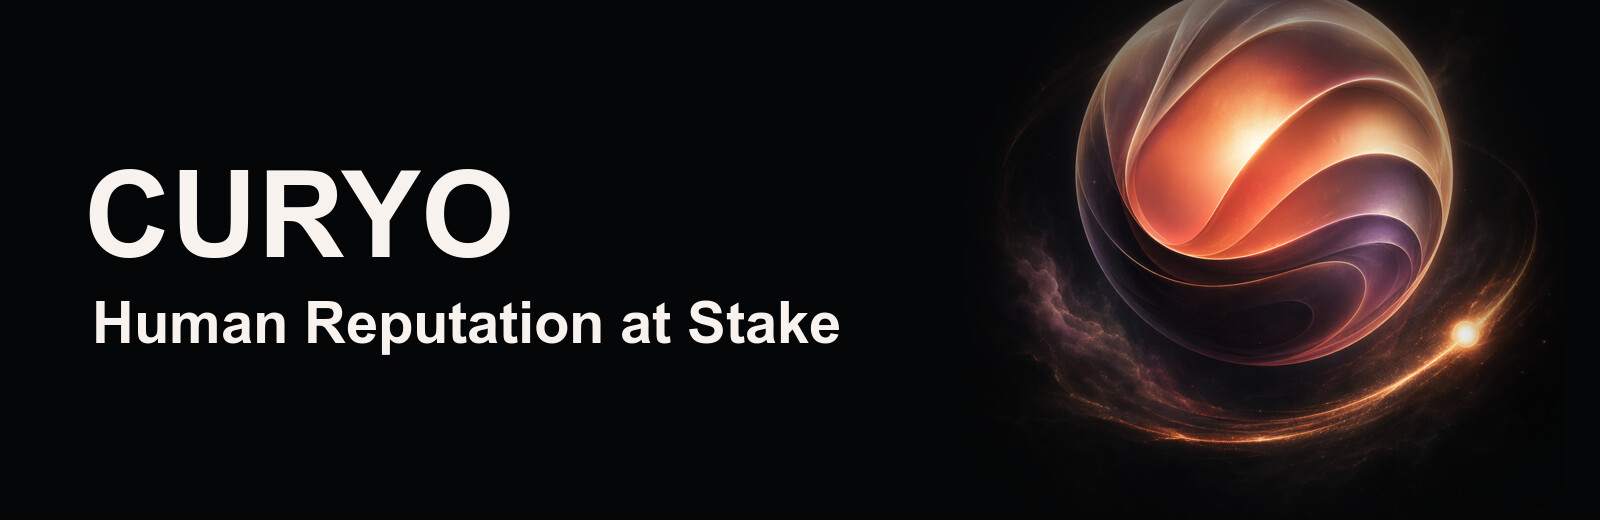
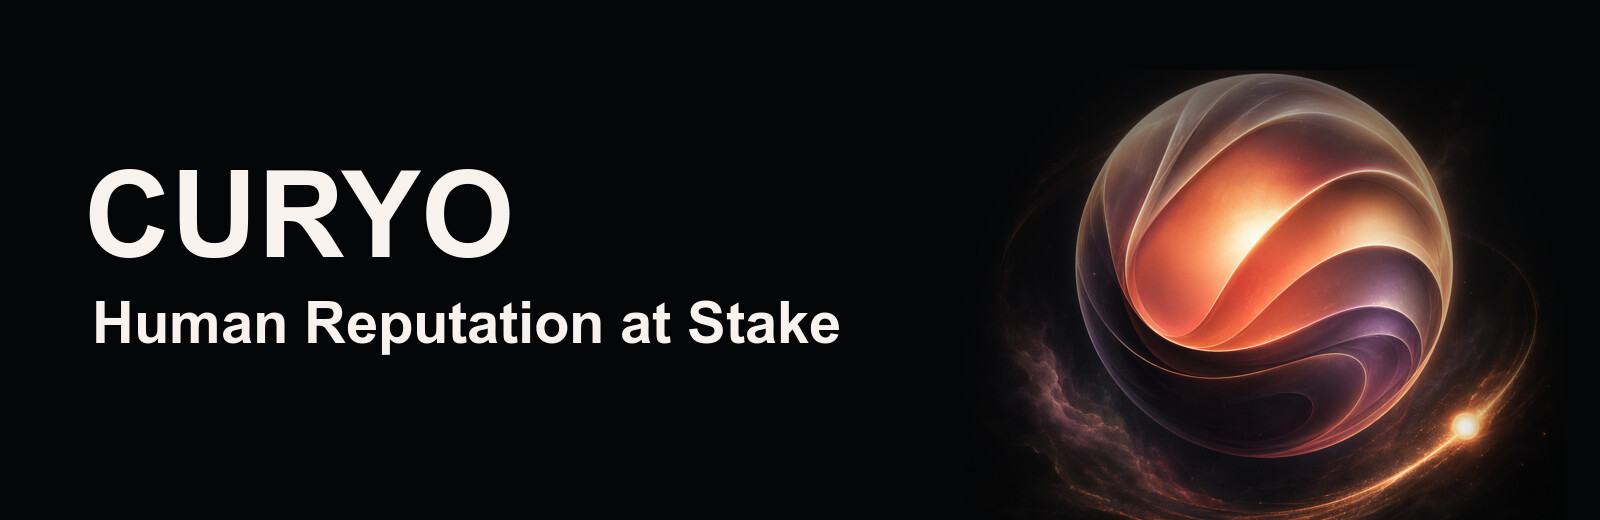
Center brand orb positioning

Changed region(s): [[0.625, 0.0, 0.9688, 1.0]]

diff --git a/packages/nextjs/components/home/CuryoAnimation.tsx b/packages/nextjs/components/home/CuryoAnimation.tsx
@@ -10,7 +10,7 @@ export function CuryoAnimation() {
         <div className="absolute inset-x-[14%] bottom-[5%] h-[34%] rounded-full bg-[radial-gradient(circle,_rgba(255,155,91,0.18),_rgba(116,49,36,0.12)_36%,_rgba(9,10,12,0)_74%)] blur-[82px]" />
         <div className="absolute inset-x-[22%] top-[5%] h-[24%] rounded-full bg-[radial-gradient(circle,_rgba(255,247,233,0.09),_rgba(9,10,12,0)_72%)] blur-[74px]" />
 
-        <div className="curyo-animation__logo relative h-[18rem] w-[18rem] sm:h-[25rem] sm:w-[25rem] sm:translate-y-[0.75rem] lg:h-[29rem] lg:w-[29rem] lg:translate-y-[1rem] xl:h-[31rem] xl:w-[31rem] xl:translate-y-[1.15rem]">
+        <div className="curyo-animation__logo relative h-[18rem] w-[18rem] translate-y-[1.5rem] sm:h-[25rem] sm:w-[25rem] sm:translate-y-[2.5rem] lg:h-[29rem] lg:w-[29rem] lg:translate-y-[3.25rem] xl:h-[31rem] xl:w-[31rem] xl:translate-y-[3.5rem]">
           <PosterOrbScene className="h-full w-full" animated={false} />
         </div>
       </div>
